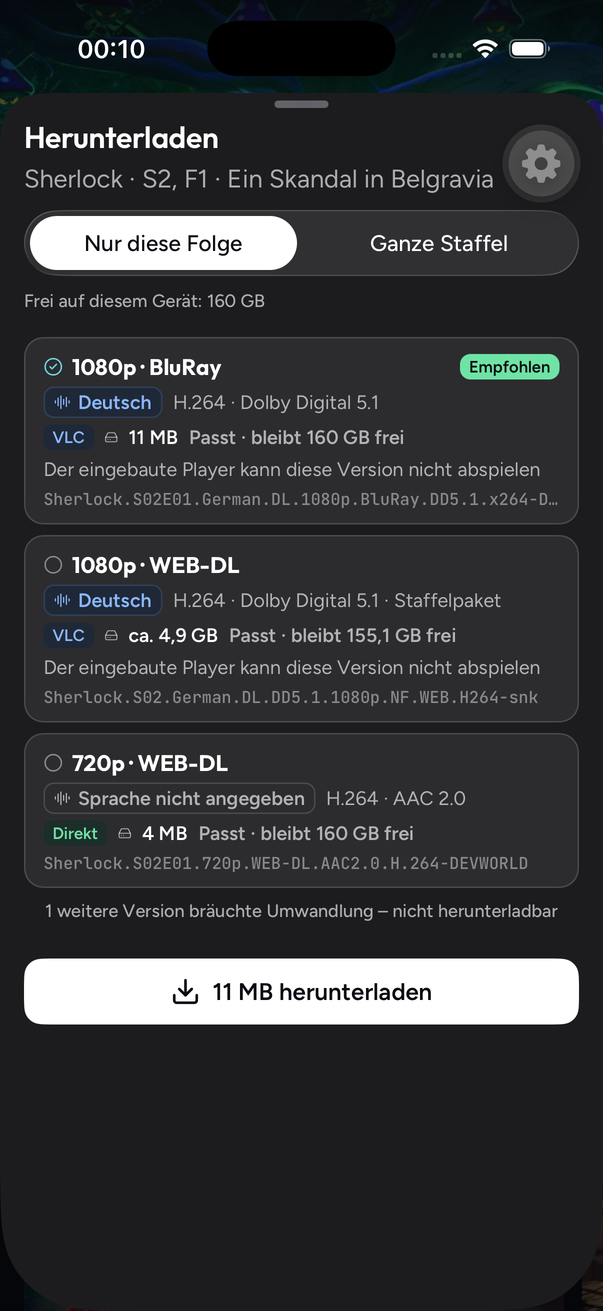
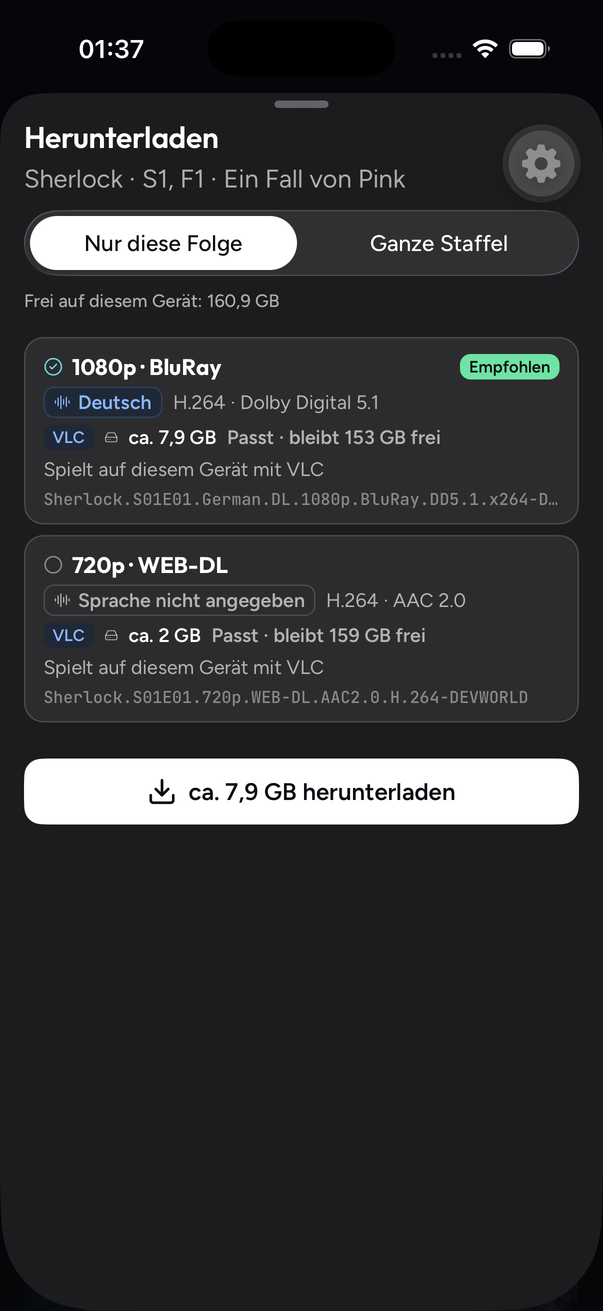
docs(client): DL-C2 journal and screenshots — VLC wording, re-takes, DL-S round 3 merged

diff --git a/docs/client/journal/DL-C2.md b/docs/client/journal/DL-C2.md
@@ -278,10 +278,23 @@ werden" banner since DL-N's native changes are merged):
 - Android phone `emulator-5560`: offline shell in 35 s; S2E1 (local 720p MP4) played offline, still at 0:21 after 15 s,
   Back → shell; held-back rows show the short reason, only Delete.
 
-### Final checks (fb/dl-ui 908f7fec, Node 24.14, load average 29–47)
+Screenshot review (orchestrator) and the next merges (fb/dl-core e4bc6659 → c736ce50, fb/downloads b483b0b7 with DL-S
+fix round 3 319cc2dc → c41c2141; one conflict in `DownloadsLibrary`: DL-C1's `isBlockedDownload` next to my row logic —
+mine kept (offered actions, other version, sign-in waits), `blockedBy` now reads DL-C1's `BLOCKED_CODES`):
+- VLC in the download sheet (97557e2a): version and pack cards no longer show the shared `vlc_fallback` reason ("Der
+  eingebaute Player kann diese Version nicht abspielen"), which read like an error on a version that downloads and
+  plays fine; a VLC version without another note reads "Spielt auf diesem Gerät mit VLC" / "Plays on this device with
+  VLC" next to its VLC chip. The streaming version sheet keeps the shared string. Re-taken: `tv-episode-panel-de`
+  (Sherlock S1E1: VLC BluRay + Direct WEB-DL), `ipad-season-pack-landscape-de`, `iphone-episode-sheet-de`.
+- iPhone tab bar shot: the Home screen carries the dev client's required-update banner (no close button), so the tab
+  bar is shown on the Library tab instead (`iphone-library-tabbar-de` replaces `iphone-home-tabbar-de`).
+- DL-C1's auto-resume is in: on the TV the held-back Sherlock S2E2 finished by itself after downloads were allowed again
+  (season chip "3/3 geladen").
+
+### Final checks (fb/dl-ui 97557e2a, Node 24.14, load average 72–130)
 
 - `npm run typecheck` → **0 errors**; `npm run lint` → **clean**.
-- `npx jest --testTimeout=30000` → **271 suites / 2796 tests, all pass** (after fix round 1: 255 / 2622; the rest are
+- `npx jest --testTimeout=30000` → **274 suites / 2808 tests, all pass** (after fix round 1: 255 / 2622; the rest are
   DL-C1's and DL-S's merged suites plus the phase B fixes' coverage). The 30 s timeout is for the load of the shared
   machine (see fix round 1); no test needed it alone.
 
@@ -299,7 +312,7 @@ werden" banner since DL-N's native changes are merged):
   `tv-downloads-on-hold-de`, `tv-detail-on-hold-de`, `tv-offline-shell-de`, `tv-offline-play-local-de`,
   `tv-detail-after-offline-sync-de`.
 - Android phone after the DL-C1 merge: `phone-offline-play-local-de`, `phone-offline-on-hold-de`.
-- iPhone: `iphone-home-tabbar-de`, `iphone-episode-sheet-de`, `iphone-season-pack-de`, `iphone-season-similar-de`,
+- iPhone: `iphone-library-tabbar-de`, `iphone-episode-sheet-de`, `iphone-season-pack-de`, `iphone-season-similar-de`,
   `iphone-downloads-badge-de`.
 - iPad: `ipad-episode-sheet-portrait-de`, `ipad-episode-sheet-landscape-de`, `ipad-season-pack-landscape-de`,
   `ipad-detail-progress-de`, `ipad-downloads-rail-de`.
@@ -324,7 +337,7 @@ werden" banner since DL-N's native changes are merged):
 ## Follow-ups
 
 - **iPhone tab bar "Mehr"**: six visible tabs; the bar shows Start, Bibliothek, Meine Liste, Downloads and "Mehr", which
-  holds Einstellungen and the trailing search-role tab Suche (`iphone-home-tabbar-de`). Six tabs since My List (Filme +
+  holds Einstellungen and the trailing search-role tab Suche (`iphone-library-tabbar-de`). Six tabs since My List (Filme +
   Serien); the Library tab took it to five, Downloads back to six. Needs a product decision (e.g. Settings into the
   profile menu).
 - **iOS sheet footer**: the confirm button ends the formSheet's list instead of being pinned; long season lists (and the
@@ -332,7 +345,5 @@ werden" banner since DL-N's native changes are merged):
   a bottom edge, so a flex footer collapses, and `unstable_sheetFooter` is Android-only.
 - Device runs still missing for the mislabeled-release failure ("Andere Version") and the `waiting_server` countdown.
 - `language_differs` row note not seen on a device: no Dev World fixture lacks the anchor's language in an episode.
-- Held-back downloads say they continue automatically; that needs DL-C1's auto-resume (not in fb/dl-core 44d54c79;
-  seen on TV and phone: still held back after downloads were allowed again).
 - Android TV: a warm `streamarr://downloads` selects the Downloads rail entry but leaves D-pad focus where it was.
 - The in-player version panel does not mark the downloaded version (the player's local mode hides version chips).

diff --git a/docs/client/JOURNAL.md b/docs/client/JOURNAL.md
@@ -188,7 +188,7 @@ Append-only. One line per task outcome; details in `journal/<TASK-ID>.md`.
 - DL-S · done · offline downloads server: candidates/season packs/similarity plan with offline playability (native or VLC direct, reused version ranking), async prepare with copy-only fallback + hard check, resumable /api/v1/offline capability (Range/ETag/If-Range, pinned transfer sessions), records + allowDownloads/limits, priority below live streams (connection share, low priority, no article cache, throttle), occurredAt, web admin, Dev World RAR pack/mislabeled/offline faults; Server 1882/1895 (13 known ffmpeg), web 329/329, live 27/27, Dev World published → journal/DL-S.md
 - DL-C1 · partial · client download core: API freeze 9fa5d2a3 (types, MMKV store per server+viewer, manager prepare→long-poll→engine→verify→complete with 410/429/403/409/disk-full/Wi-Fi/validator handling, kill-safe reconciliation), metadata+artwork snapshot, connectivity + /offline shell, DownloadsLibrary, player local mode (expo-video/VLC, local tracks, newer resume, offline up-next), app-wide progress sync with occurredAt, sign-out/remove prompt; jest 2502/2502; phase B device verification pending DL-N integration → journal/DL-C1.md
 - DL-N · done · own Expo module offline-downloads (Android UIDT job/FGS, iOS background URLSession; Range+If-Range resume, native queue, Wi-Fi only) behind src/downloads/engine, verified on phone 14, Google TV 13, Android TV 14, iPhone sim → journal/DL-N.md
-- DL-C2 · done · download sheet (episode/movie, season pack, rest similar, each yourself, fit verdicts, stream-only line), Downloads tab/rail + badge, phone Library tab, detail defaults/markers/progress, settings + offline-shell section, TV D-pad; fix round 1 (C1-09…C1-26); phase B on Android phone, Android TV, iPhone and iPad sims against Dev World 39305 (43 screenshots, 8 device bugs fixed); open: iPhone "Mehr" tab, iOS sheet footer not pinned; typecheck/lint 0, sign-in waits read as such; plan language note, held-back downloads read as on hold; DL-C1 round-1 API (locked, unknown space, per-record re-renders), offline shell → play re-checked on TV + phone; jest 271/2796 green → journal/DL-C2.md
+- DL-C2 · done · download sheet (episode/movie, season pack, rest similar, each yourself, fit verdicts, stream-only line), Downloads tab/rail + badge, phone Library tab, detail defaults/markers/progress, settings + offline-shell section, TV D-pad; fix round 1 (C1-09…C1-26); phase B on Android phone, Android TV, iPhone and iPad sims against Dev World 39305 (43 screenshots, 8 device bugs fixed); open: iPhone "Mehr" tab, iOS sheet footer not pinned; typecheck/lint 0, sign-in waits read as such; plan language note, held-back downloads read as on hold; DL-C1 round-1 API (locked, unknown space, per-record re-renders), offline shell → play re-checked on TV + phone; VLC versions read as playable in the sheet; DL-S round 3 merged; jest 274/2808 green → journal/DL-C2.md
 - DL-S · fix round 1 · done · all 17 verifier findings (V1-01…V1-17): revocable file access (per-download/viewer access generations, 2 s cut-off, age gate per request), security sign-out rotates file URLs (410 download_revoked, renew issues a new URL), idempotent prepares (unique key), transfers never evict playback, preparation in the download share + 1 resolve slot kept, refundable throttle, completion dedupe, preconditions, CORS, log redaction; 34 new tests fail on the pre-fix tree; Server 1933/1947 (13 known ffmpeg + 1 tunnel flake), web 329/329, live 27/27 + 16/16, Dev World re-published → journal/DL-S.md
 - DL-S · fix round 1b · done · similarity plan follows the picked version's language (same primary language or both untagged; viewer's language only as fallback with language_differs), recommendations unchanged; 4 new tests fail before; Server 1943/1957 (13 known ffmpeg + 1 tunnel load flake), live 28/28 + 16/16, Dev World re-published → journal/DL-S.md
 - DL-C1 · done · phase B passed on Android phone, Google TV 13 (D-pad) and iPhone Air: kill/terminate + re-attach, offline shell (no network / server down), local playback native + VLC with local audio switch, offline progress synced with real occurredAt, sign-out prompt; 7 device bugs fixed with tests (queue pump, handover flash, server-only hints, TV focus, single-failure probe, device clock skew → server time, AVPlayer crash on a download's nil text style rules); jest 2584/2584 → journal/DL-C1.md
